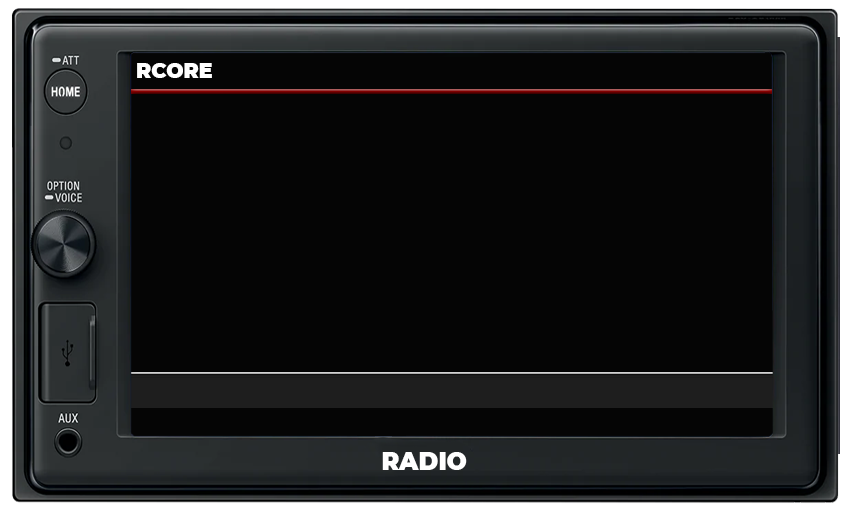
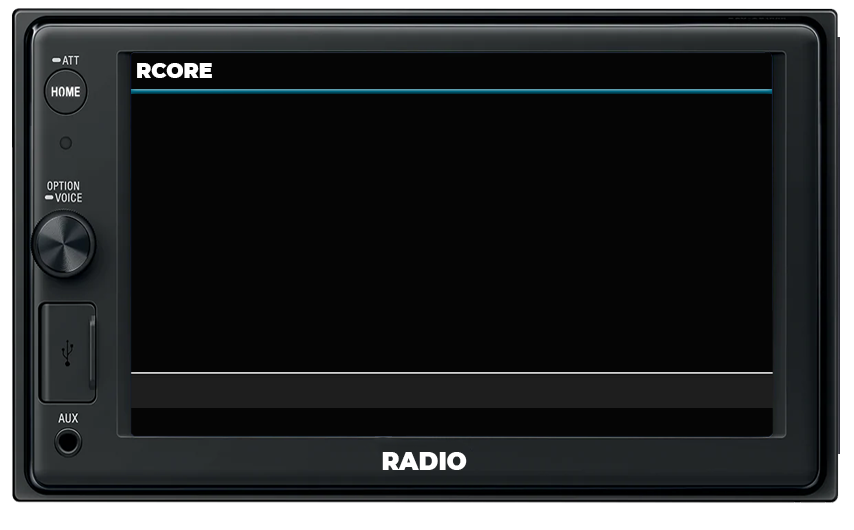
carradio update

Changed region(s): [[0.1522, 0.1509, 0.9133, 0.1811]]

diff --git a/resources/[standalone]/[vehicles]/rcore_radiocar/html/css/style.css b/resources/[standalone]/[vehicles]/rcore_radiocar/html/css/style.css
@@ -69,11 +69,11 @@ body{
 }
 
 #playSong i:hover{
-	color: #ff7878;
+	color: #53B3CB;
 }
 
 #playSong:hover{
-	color: #ff7878;
+	color: #53B3CB;
 	cursor: pointer;
 }
 
@@ -226,7 +226,7 @@ i.far.fa-trash-alt.active {
 }
 
 .music i:hover{
-	color: #ff7878;
+	color: #53B3CB;
 	cursor: pointer;
 }
 
@@ -264,12 +264,12 @@ i.far.fa-trash-alt.active {
 
 .box:hover{
 	/* background: url(./img/menu_activate.png) repeat; */
-	color: #ff7878;
+	color: #53B3CB;
 	cursor: pointer;
 }
 
 .box:hover i{
-	color: #ff7878;
+	color: #53B3CB;
 	cursor: pointer;
 }
 
